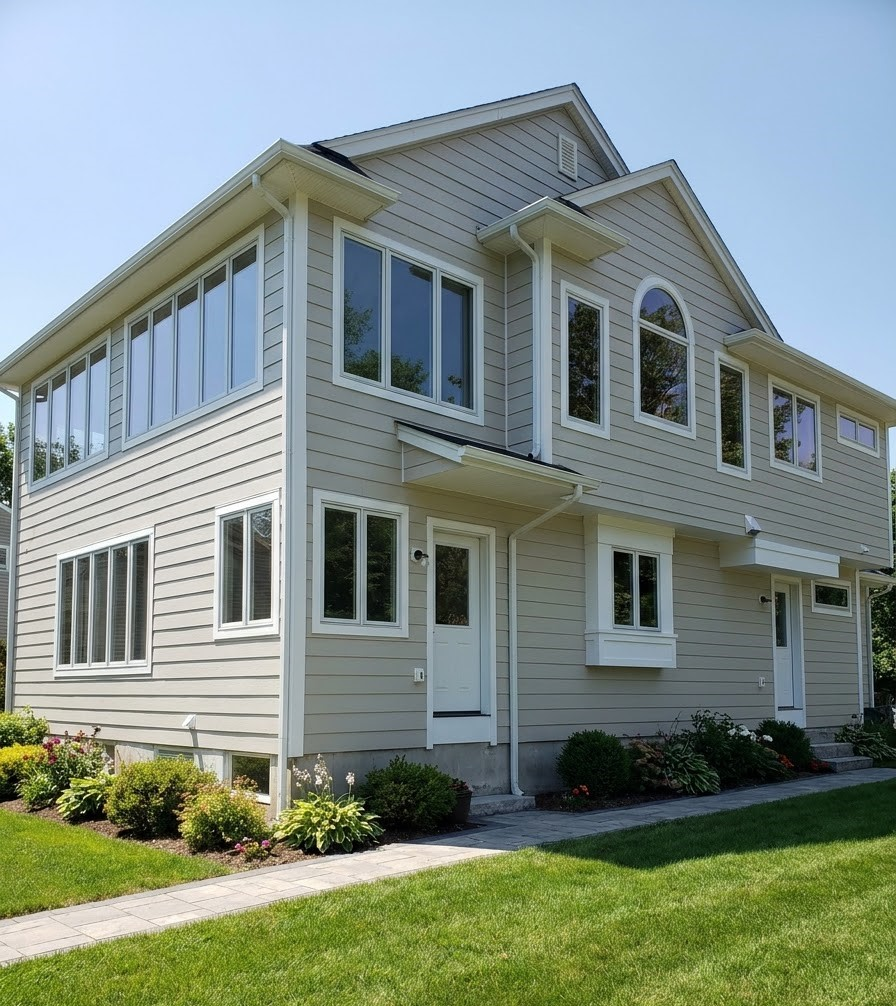
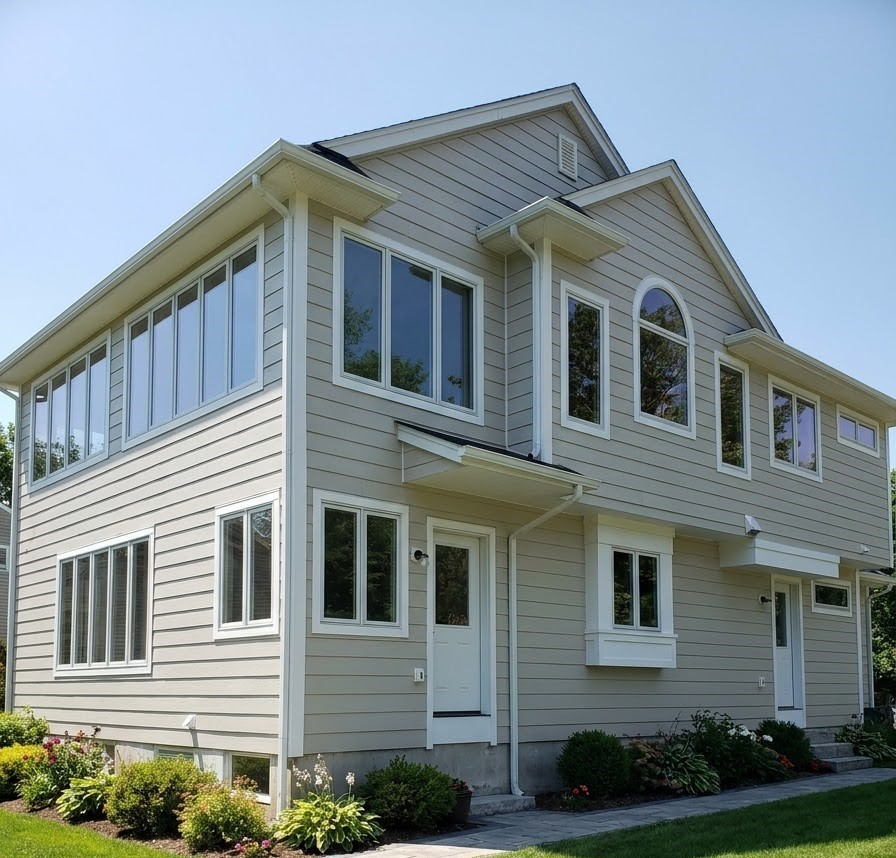
made changes of images

diff --git a/src/app/showcase/page.tsx b/src/app/showcase/page.tsx
@@ -4,7 +4,7 @@ import { useState, useEffect } from "react";
 import { createPortal } from "react-dom";
 
 import asset1 from "../../assets/asset-1.jpeg";
-import asset3 from "../../assets/asset-3.jpeg";
+import asset3 from "../../assets/31.jpeg";
 import asset4 from "../../assets/asset-4.jpeg";
 import asset5 from "../../assets/asset-5.jpeg";
 import asset6 from "../../assets/asset-6.jpeg";
@@ -14,16 +14,12 @@ import addition2 from "../../assets/2.jpeg";
 import addition3 from "../../assets/3.jpeg";
 import addition4 from "../../assets/4.jpeg";
 import addition5 from "../../assets/5.jpeg";
+import addition6 from "../../assets/6.jpeg";
+import addition7 from "../../assets/7.jpeg";
+import beforeImage from "../../assets/before.jpeg";
+import afterImage from "../../assets/after.jpeg";
 
 const showcaseData = [
-  {
-    id: 1,
-    title: "Cinematic Walkthrough",
-    category: "Architecture",
-    type: "video",
-    src: asset1, // Video thumbnail or poster
-    videoUrl: video1
-  },
   {
     id: 3,
     title: "Urban Commercial Complex",
@@ -48,54 +44,101 @@ const showcaseData = [
   {
     id: 6,
     title: "Open Concept Office",
-    category: "Commercial",
+    category: "Residential Additions",
     type: "image",
     src: asset6,
   },
   {
     id: 7,
     title: "Addition Foundation",
-    category: "Architecture",
+    category: "Residential Additions",
     type: "image",
     src: addition1,
   },
   {
     id: 8,
     title: "Masonry and Waterproofing",
-    category: "Architecture",
+    category: "Residential Additions",
     type: "image",
     src: addition2,
   },
   {
     id: 9,
     title: "Second-Story Framing",
-    category: "Architecture",
+    category: "Residential Additions",
     type: "image",
     src: addition3,
   },
   {
     id: 10,
     title: "Timber Frame Construction",
-    category: "Architecture",
+    category: "Residential Additions",
     type: "image",
     src: addition4,
   },
   {
     id: 11,
     title: "Completed Home Addition",
-    category: "Architecture",
+    category: "Residential Additions",
     type: "image",
     src: addition5,
   },
+  {
+    id: 12,
+    title: "Completed Residential Addition",
+    category: "Residential Additions",
+    type: "image",
+    src: addition6,
+  },
+  {
+    id: 13,
+    title: "Residential Addition Detail",
+    category: "Residential Additions",
+    type: "image",
+    src: addition7,
+  },
+  {
+    id: 14,
+    title: "Home Before Construction",
+    category: "Before & After",
+    type: "image",
+    src: beforeImage,
+  },
+  {
+    id: 15,
+    title: "Home After Construction",
+    category: "Before & After",
+    type: "image",
+    src: afterImage,
+  },
+  {
+    id: 1,
+    title: "Cinematic Walkthrough",
+    category: "Commercial",
+    type: "video",
+    src: asset1,
+    videoUrl: video1,
+  },
 ];
+
+const showcaseOrder = [14, 3, 12, 5, 15, 7, 4, 10, 6, 13, 8, 11, 9, 1];
 
 export default function ShowcasePage() {
   const [filter, setFilter] = useState("All");
   const [activeMedia, setActiveMedia] = useState<any>(null);
 
-  const categories = ["All", "Architecture", "Interior Design", "Commercial"];
+  const categories = [
+    "All",
+    "Residential Additions",
+    "Before & After",
+    "Architecture",
+    "Interior Design",
+    "Commercial",
+  ];
 
-  const filteredData = filter === "All" ? showcaseData : showcaseData.filter(item => item.category === filter);
+  const filteredData = showcaseData
+    .filter(item => filter === "All" || item.category === filter)
+    .sort((first, second) => showcaseOrder.indexOf(first.id) - showcaseOrder.indexOf(second.id));
 
   const activeIndex = filteredData.findIndex(item => item.id === activeMedia?.id);
 

diff --git a/src/components/PortfolioSection.tsx b/src/components/PortfolioSection.tsx
@@ -1,14 +1,12 @@
 import { Link } from "react-router-dom";
-import addition1 from "../assets/1.jpeg";
-import addition2 from "../assets/2.jpeg";
-import addition3 from "../assets/3.jpeg";
-import addition5 from "../assets/5.jpeg";
+import addition6 from "../assets/6.jpeg";
+import beforeImage from "../assets/before.jpeg";
+import afterImage from "../assets/after.jpeg";
 
-const additionProgressImages = [
-  { src: addition5, alt: 'Completed residential home addition' },
-  { src: addition1, alt: 'Home addition framing above the foundation' },
-  { src: addition2, alt: 'New masonry foundation under construction' },
-  { src: addition3, alt: 'Second-story home addition framing' },
+const featuredImage = { src: addition6, alt: 'Completed residential project' };
+const beforeAfterImages = [
+  { src: beforeImage, alt: 'Home before the addition project' },
+  { src: afterImage, alt: 'Home after the addition project' },
 ];
 
 export default function PortfolioSection() {
@@ -39,25 +37,27 @@ export default function PortfolioSection() {
             </h2>
           </div>
 
-          <p className="col-span-12 max-w-md text-sm sm:text-base text-forest lg:col-span-4">
+          <p className="col-span-12 max-w-md text-sm leading-relaxed sm:text-base text-forest lg:col-span-4 lg:mb-8">
             We specialize in high-end commercial and residential work,
             delivering bespoke architectural and interior design solutions
-            tailored to your unique vision.
+            tailored to your unique vision. From thoughtful additions and
+            refined renovations to complete spaces built from the ground up,
+            every project is shaped around how you live, work, and gather.
           </p>
         </header>
 
         <div className="grid grid-cols-1 gap-5 lg:grid-cols-12 lg:auto-rows-[190px]">
-          <figure className="group relative overflow-hidden rounded-[24px] aspect-[4/3] lg:col-span-8 lg:row-span-3 lg:aspect-auto bg-forest/10">
+          <figure className="group relative overflow-hidden rounded-[24px] aspect-[4/3] lg:col-span-8 lg:row-span-4 lg:aspect-auto bg-forest/10">
             <img
-              src={additionProgressImages[0].src}
-              alt={additionProgressImages[0].alt}
+              src={featuredImage.src}
+              alt={featuredImage.alt}
               loading="lazy"
-              className="absolute inset-0 h-full w-full object-cover transition-transform duration-[1200ms] ease-out group-hover:scale-[1.06]"
+              className="absolute inset-0 h-full w-full object-cover object-center transition-transform duration-[1200ms] ease-out group-hover:scale-[1.03]"
             />
           </figure>
 
-          {additionProgressImages.slice(1).map((image) => (
-            <figure key={image.src} className="group relative overflow-hidden rounded-[20px] aspect-[4/3] lg:col-span-4 lg:aspect-auto bg-forest/10">
+          {beforeAfterImages.map((image) => (
+            <figure key={image.src} className="group relative overflow-hidden rounded-[20px] aspect-[4/3] lg:col-span-4 lg:row-span-2 lg:aspect-auto bg-forest/10">
               <img
                 src={image.src}
                 alt={image.alt}

diff --git a/src/components/Hero.tsx b/src/components/Hero.tsx
@@ -5,9 +5,9 @@ import { Link } from 'react-router-dom';
 import asset6 from '../assets/asset-6.jpeg';
 import img31 from '../assets/31.jpeg';
 import asset5 from '../assets/asset-5.jpeg';
-import heroImage from '../assets/hero.jpeg';
+import asset8 from '../assets/asset-8.jpeg';
 
-const HERO_IMG = heroImage;
+const HERO_IMG = asset8;
 const CLINIC_IMG = img31;
 const OFFICE_IMG = asset5;
 
@@ -114,18 +114,6 @@ export default function Hero() {
                 alt="Sunlit residence interior — Ridgemont Residence"
                 className="h-full w-full object-cover origin-center"
               />
-              {/* Bottom overlay */}
-              <div className="absolute inset-x-0 bottom-0 bg-gradient-to-t from-[#0F2018]/80 via-[#0F2018]/20 to-transparent p-5 sm:p-6 text-linen">
-                <div className="flex items-end justify-between">
-                  <div>
-                    <div className="text-[10px] uppercase tracking-[0.28em] opacity-75 mb-1">Featured</div>
-                    <div className="font-display text-xl sm:text-2xl leading-tight">The Ridgemont Residence</div>
-                  </div>
-                  <div className="glass-dark hidden rounded-full px-4 py-2 text-xs sm:block whitespace-nowrap">
-                    Whole-home renovation · 6,200 sqft
-                  </div>
-                </div>
-              </div>
             </figure>
           </div>
 

diff --git a/src/components/ShowcaseSection.tsx b/src/components/ShowcaseSection.tsx
@@ -1,16 +1,16 @@
 import { ArrowRight, Play, Image as ImageIcon } from "lucide-react";
 import { Link } from "react-router-dom";
 
-import video1 from "../assets/video 1.mp4";
 import addition4 from "../assets/4.jpeg";
 import addition5 from "../assets/5.jpeg";
+import addition7 from "../assets/7.jpeg";
 
 const showcaseItems = [
   {
     id: 1,
-    title: "Luxury Modern Villa",
-    type: "video",
-    src: video1,
+    title: "Residential Addition",
+    type: "image",
+    src: addition7,
   },
   {
     id: 2,
